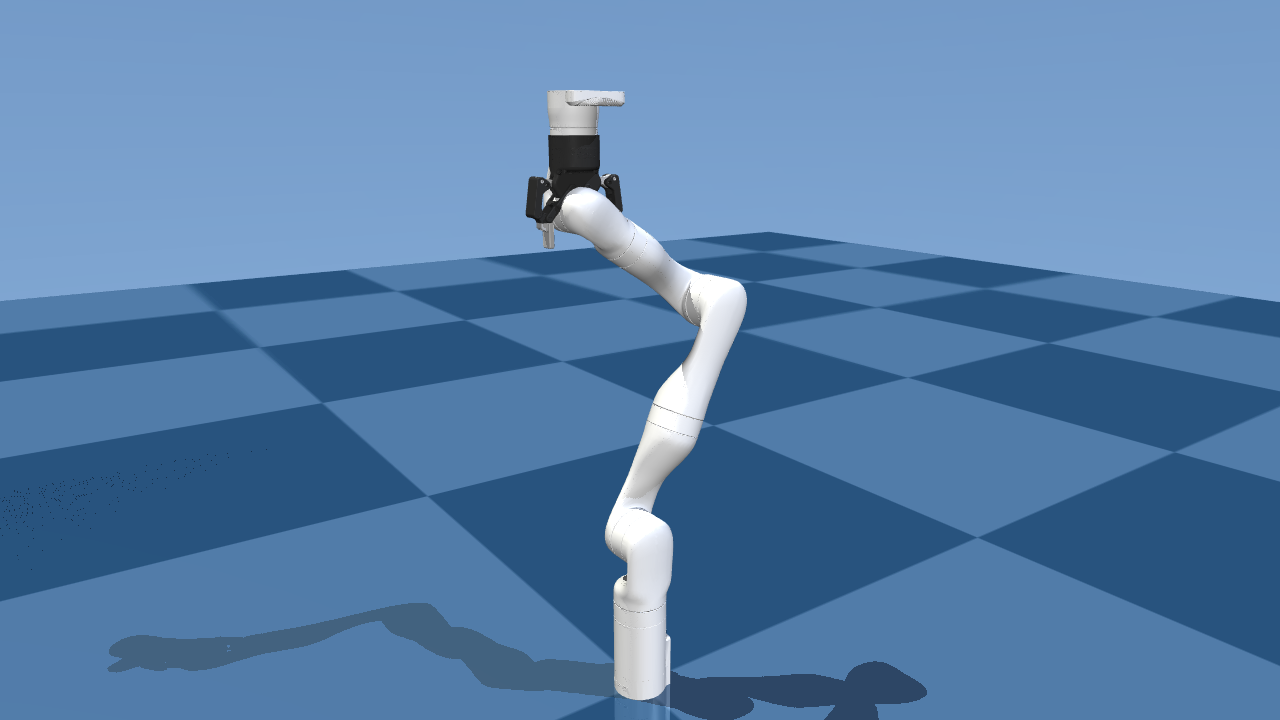
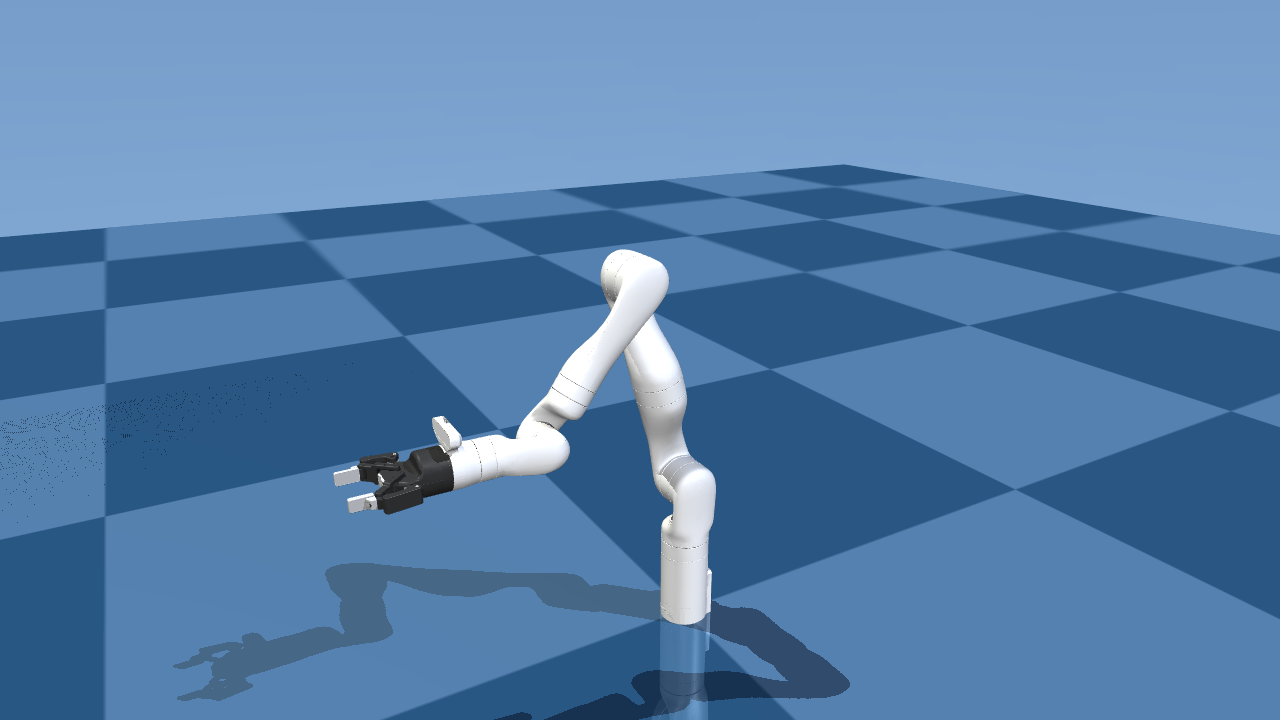
Fix gripper attachment: correct pos/quat and anchor transformation
Two bugs fixed:
- attach_gripper: connect anchor transformation now applies R_gquat to the
  anchor before adding g->pos, so anchors are correctly placed when the
  gripper is rotated relative to the attach_to body
- test/GripperSpec: set pos=(0,0,-0.061525) and quat=(0,1,0,0) per the
  MuJoCo menagerie gen3_with_2f85 reference (flange offset + 180° around x)

Regenerated assets/gen3_with_2f85.xml and docs/gen3_with_gripper.png with
arm in menagerie home pose showing correct gripper orientation.

https://claude.ai/code/session_01HfdqK61i2LNqxcqDRCP2XA

diff --git a/src/mj_kdl_wrapper.cpp b/src/mj_kdl_wrapper.cpp
@@ -847,9 +847,15 @@ bool attach_gripper(const char* arm_mjcf, const GripperSpec* g, const char* out_
             mj_deleteModel(arm_model);
         }
 
-        // Incorporate GripperSpec::pos offset (already in attach_to frame)
-        // anchor_world = attach_pos + R_attach @ (gripper_local_anchor + g->pos)
+        // anchor_world = attach_pos + R_attach @ (R_gquat @ a + g->pos)
+        // where a is the anchor in gripper-native frame.
         double gpos[3] = {g->pos[0], g->pos[1], g->pos[2]};
+        double qw=g->quat[0], qx=g->quat[1], qy=g->quat[2], qz=g->quat[3];
+        double Rq[9] = {
+            1-2*(qy*qy+qz*qz), 2*(qx*qy-qw*qz),   2*(qx*qz+qw*qy),
+            2*(qx*qy+qw*qz),   1-2*(qx*qx+qz*qz), 2*(qy*qz-qw*qx),
+            2*(qx*qz-qw*qy),   2*(qy*qz+qw*qx),   1-2*(qx*qx+qy*qy)
+        };
 
         XMLElement* geq = grp_mj->FirstChildElement("equality");
         if (geq) {
@@ -858,15 +864,17 @@ bool attach_gripper(const char* arm_mjcf, const GripperSpec* g, const char* out_
             for (auto* c = geq->FirstChildElement(); c; c = c->NextSiblingElement()) {
                 XMLElement* cl = xml_deep_clone(c, &arm_doc);
                 xml_prefix_names(cl, pfx);
-                // Transform connect anchor positions
                 if (std::strcmp(cl->Name(), "connect") == 0) {
                     const char* anc = cl->Attribute("anchor");
                     if (anc) {
                         double a[3] = {0, 0, 0};
                         std::sscanf(anc, "%lf %lf %lf", &a[0], &a[1], &a[2]);
-                        // local = a (in gripper base frame) + gpos offset
-                        double loc[3] = {a[0]+gpos[0], a[1]+gpos[1], a[2]+gpos[2]};
-                        // world = attach_pos + R_attach @ loc (attach_mat is row-major)
+                        // rotate anchor by g->quat, then add g->pos (in attach_to frame)
+                        double ra[3] = {Rq[0]*a[0]+Rq[1]*a[1]+Rq[2]*a[2],
+                                        Rq[3]*a[0]+Rq[4]*a[1]+Rq[5]*a[2],
+                                        Rq[6]*a[0]+Rq[7]*a[1]+Rq[8]*a[2]};
+                        double loc[3] = {ra[0]+gpos[0], ra[1]+gpos[1], ra[2]+gpos[2]};
+                        // transform to world frame via attach_to body pose
                         double wx = attach_pos[0] + attach_mat[0]*loc[0]+attach_mat[1]*loc[1]+attach_mat[2]*loc[2];
                         double wy = attach_pos[1] + attach_mat[3]*loc[0]+attach_mat[4]*loc[1]+attach_mat[5]*loc[2];
                         double wz = attach_pos[2] + attach_mat[6]*loc[0]+attach_mat[7]*loc[1]+attach_mat[8]*loc[2];

diff --git a/tools/render_gripper_scene.py b/tools/render_gripper_scene.py
@@ -44,7 +44,8 @@ def main():
 
     joint_ids = [mujoco.mj_name2id(model, mujoco.mjtObj.mjOBJ_JOINT, f"joint_{i+1}")
                  for i in range(7)]
-    for jid, rad in zip(joint_ids, [0.0, -0.4, 0.0, 1.4, 0.0, -1.0, 0.0]):
+    # "home" pose from the menagerie keyframe
+    for jid, rad in zip(joint_ids, [0.0, 0.2618, 3.1416, -2.2689, 0.0, 0.9599, 1.5708]):
         if jid >= 0:
             data.qpos[model.jnt_qposadr[jid]] = rad
     mujoco.mj_forward(model, data)
@@ -61,10 +62,10 @@ def main():
 
     cam           = mujoco.MjvCamera()
     cam.type      = mujoco.mjtCamera.mjCAMERA_FREE
-    cam.lookat[:] = [0.0, 0.0, 0.6]
-    cam.distance  = 1.4
-    cam.azimuth   = -125.0
-    cam.elevation = -15.0
+    cam.lookat[:] = [0.1, 0.0, 0.55]
+    cam.distance  = 1.5
+    cam.azimuth   = -120.0
+    cam.elevation = -20.0
 
     renderer.update_scene(data, camera=cam, scene_option=mujoco.MjvOption())
     pixels = renderer.render()

diff --git a/test/test_kinova_gen3_gripper.cpp b/test/test_kinova_gen3_gripper.cpp
@@ -42,10 +42,15 @@ int main(int argc, char* argv[])
     const std::string combined   = (root / "assets/gen3_with_2f85.xml").string();
 
     // Test 1: combine arm + gripper
+    // Attachment follows the MuJoCo menagerie gen3_with_2f85 reference:
+    //   pos  = (0, 0, -0.061525)  — flange face along bracelet_link -z
+    //   quat = (0, 1, 0, 0)       — 180° around x so gripper faces away from arm
     mj_kdl::GripperSpec gs;
     gs.mjcf_path = grp_mjcf.c_str();
     gs.attach_to = "bracelet_link";
-    gs.prefix    = "g_"; // avoids default class name conflicts with arm
+    gs.prefix    = "g_";
+    gs.pos[0] = 0.0; gs.pos[1] = 0.0; gs.pos[2] = -0.061525;
+    gs.quat[0] = 0.0; gs.quat[1] = 1.0; gs.quat[2] = 0.0; gs.quat[3] = 0.0;
 
     if (!mj_kdl::attach_gripper(arm_mjcf.c_str(), &gs, combined.c_str())) {
         std::cerr << "FAIL: attach_gripper\n"; return 1;
